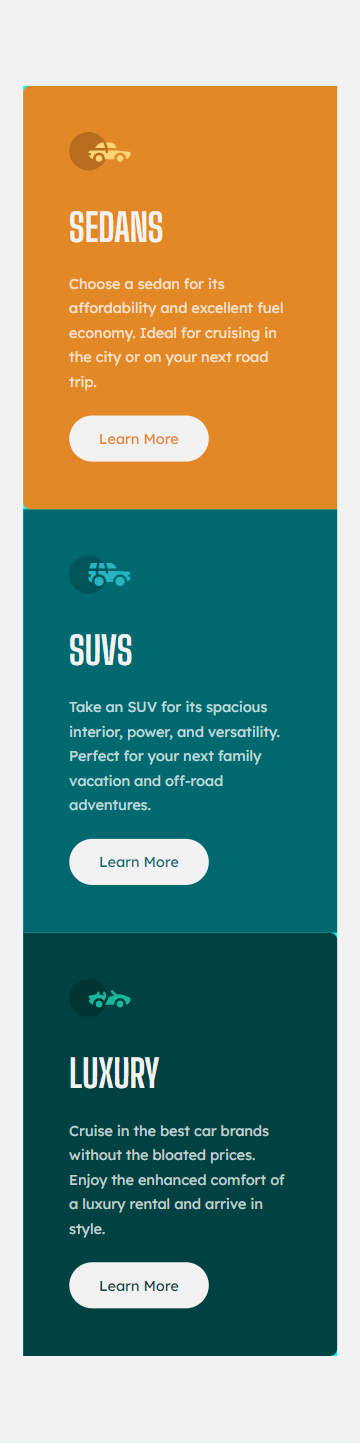
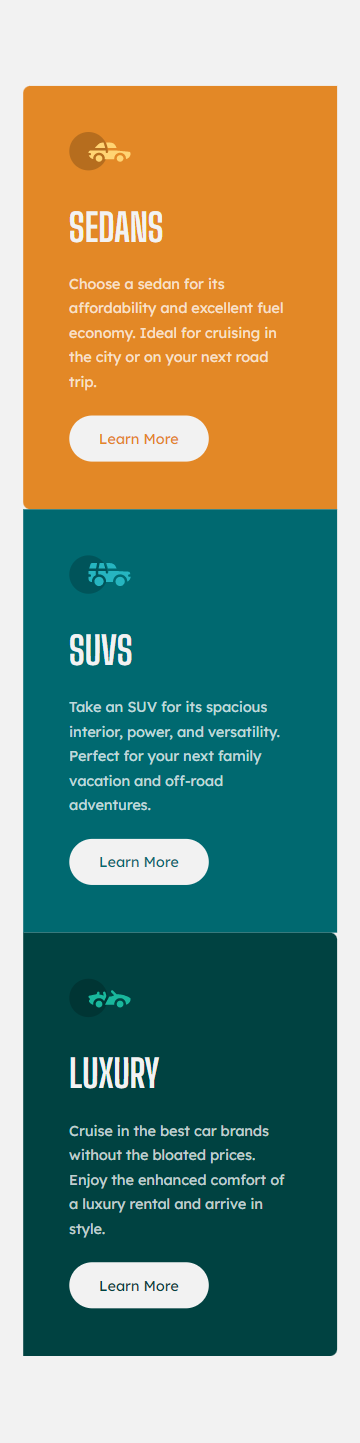
screeenshot readme and style.css updated

Changed region(s): [[0.9167, 0.6237, 0.9472, 0.6549], [0.0611, 0.6237, 0.0917, 0.6549], [0.0611, 0.343, 0.0917, 0.3742]]

diff --git a/style.css b/style.css
@@ -1,8 +1,5 @@
 @import url("https://fonts.googleapis.com/css2?family=Big+Shoulders+Display:wght@700&family=Lexend+Deca&display=swap");
 
-/* font-family: 'Big Shoulders Display', cursive;
-font-family: 'Lexend Deca', sans-serif; */
-
 :root {
   /* ####Primary Colors    */
   --bright-orange: hsl(31, 77%, 52%);
@@ -23,14 +20,11 @@ html {
   background-color: var(--very-light-gray);
 }
 .card {
-  /* width: 30em; */
-  /* height: 10em; */
   display: flex;
   position: absolute;
   top: 52.8%;
   left: 50%;
   transform: translate(-50%, -50%);
-  background-color: aqua;
 }
 .container {
   height: 100%;

diff --git a/README.md b/README.md
@@ -34,7 +34,7 @@ Users should be able to:
 ### Links
 
 - Solution URL: [https://github.com/saglamorhan/3-column-preview-card-component.git]
-- Live Site URL: [Add live site URL here]
+- Live Site URL: [https://saglamorhan.github.io/3-column-preview-card-component/]
 
 ## My process
 
